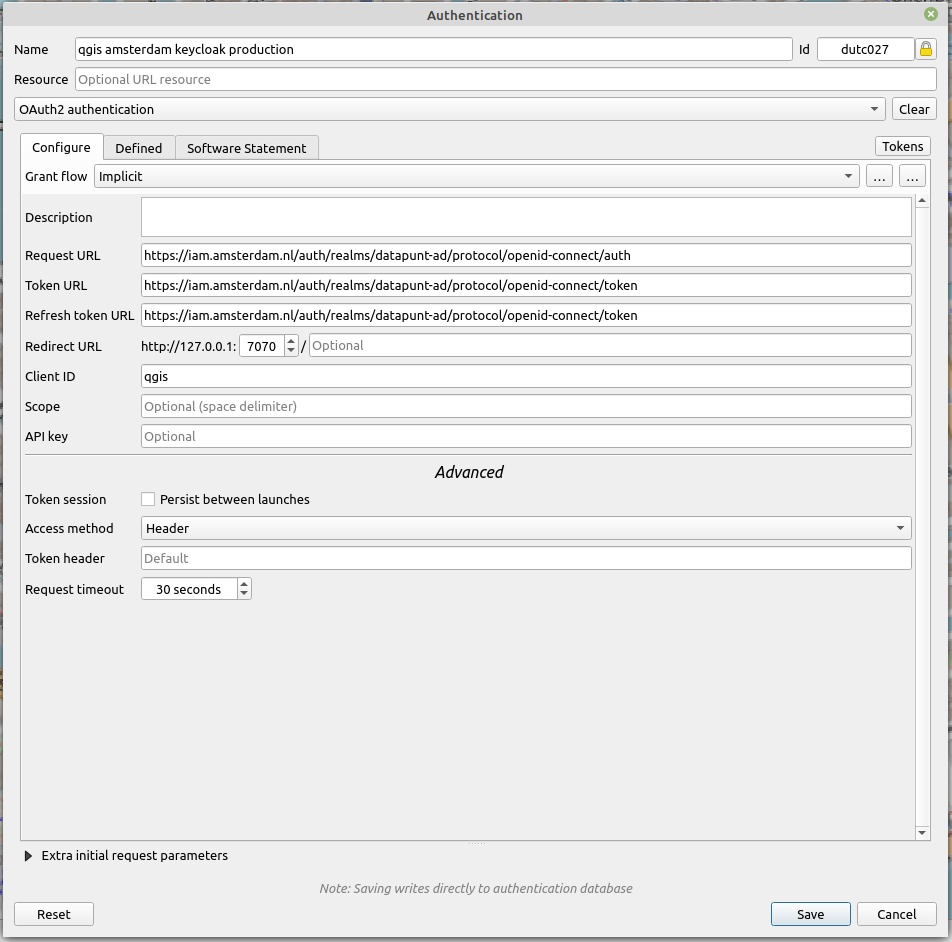
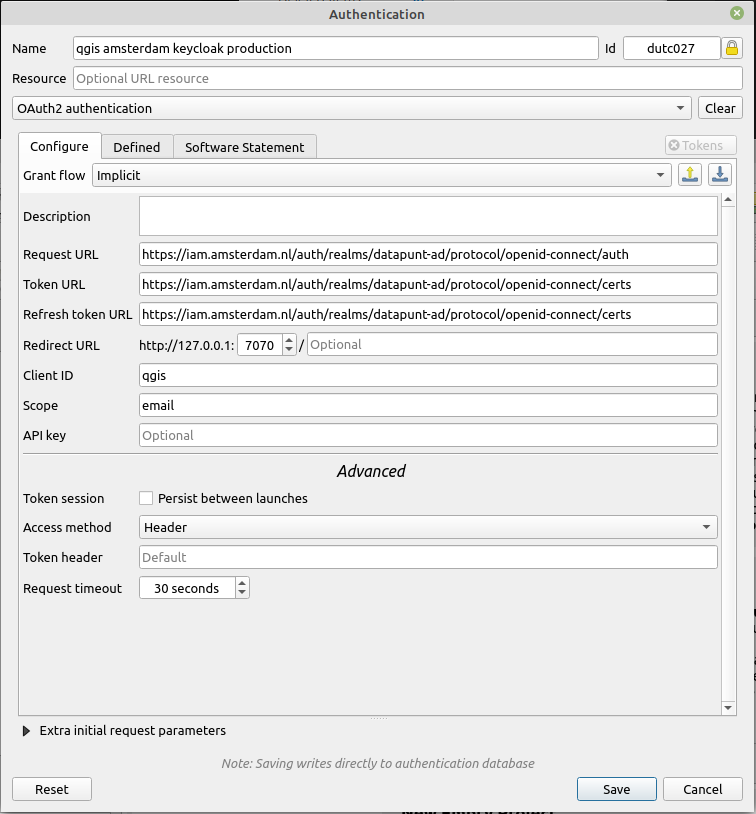
Update qgis authentication documentation
Docs on QGis authentication where outdated. The token enpoints have changed
and the `email` scope is now required.

diff --git a/docs/source/generic/wfs/qgis.rst b/docs/source/generic/wfs/qgis.rst
@@ -19,8 +19,8 @@ Gebruik zo'n URL in QGIS:
 Voor gesloten datasets moet ook een authorisatie configuratie worden toegevoegd. Dit kan door
 op het groene kruisje in het bovenstaande menu te klikken. Selecteer OAuth2 authenticatie, met 'implicit' grant flow.
 Vul bij 'request url' :samp:`https://iam.amsterdam.nl/auth/realms/datapunt-ad/protocol/openid-connect/auth` en bij 'token url'
-:samp:`https://iam.amsterdam.nl/auth/realms/datapunt-ad/protocol/openid-connect/token` in.
-De client id is :samp:`qgis` en access method is :samp:`header`. QGIS zal bij het gebruiken van de WFS een browserscherm openen,
+:samp:`https://iam.amsterdam.nl/auth/realms/datapunt-ad/protocol/openid-connect/certs` in.
+De client id is :samp:`qgis`, Scope is :samp:`email` en access method is :samp:`header`. QGIS zal bij het gebruiken van de WFS een browserscherm openen,
 waar een geauthoriseerde gebruiker kan inloggen.
 
 .. figure:: /generic/images/qgis-add-authentication.png
